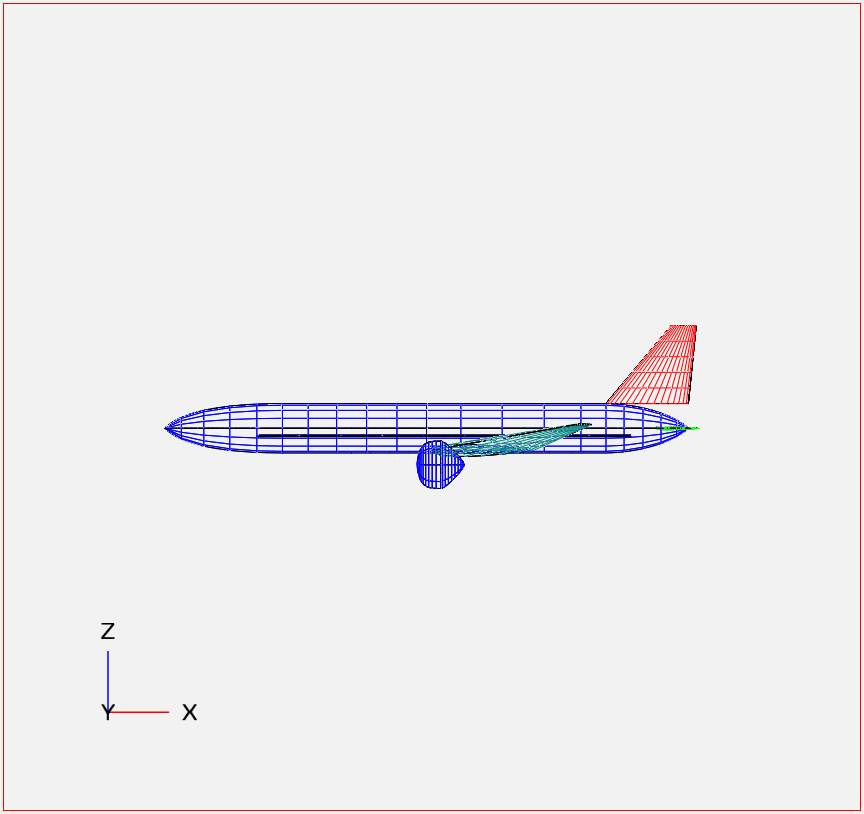
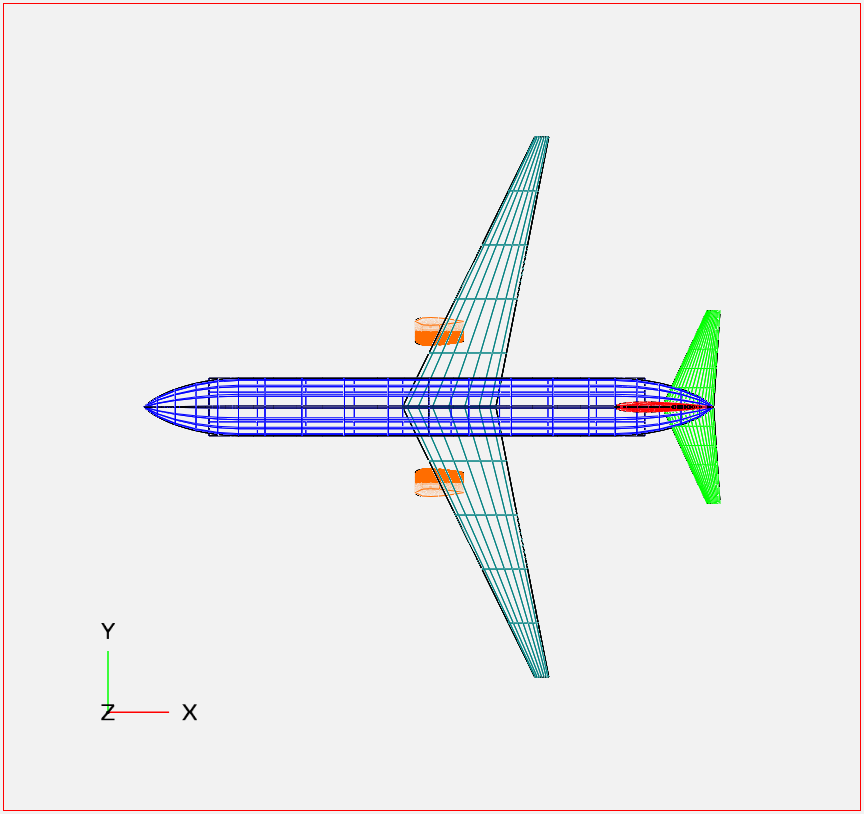
VSP conventional engine geom. resolved, pictures updated.

Changed region(s): [[0.1562, 0.1536, 0.8438, 0.8292], [0.0938, 0.86, 0.125, 0.8907]]

diff --git a/genVSP.py b/genVSP.py
@@ -196,16 +196,16 @@ def genDesFile(sol, aircraft = 'D82', i = 0, swpt = False):
     # if aircraft in ['D8big', 'D82_73eng', 'D8_eng_wing', 'optimalD8', 'M08D8', 'M08_D8_eng_wing']:
 
     # Wing mounted engines
-    if aircraft in ['b737800', 'b777300ER','D8_eng_wing','M08_D8_eng_wing']:
+    if aircraft in ['b737800', 'b777300ER','D8_eng_wing','M08_D8_eng_wing','optimal737']:
         resultsDict.update({
          # Engine Variables
-        'EGCVYPSLWEZ':float((xwing).magnitude), # Engine x location
+        'EGCVYPSLWEZ':float((xwing).magnitude - 0.25*croot.magnitude + yeng.magnitude*tan(sweep*pi/180)), # Engine x location
         'RJLYSBJAFOT':float(yeng.magnitude), #Engine y location
         'GBGVQARDEVD':float(-hfuse.magnitude - 0.2*df.magnitude), # Engine z location
         'HKVDGHIEXRW':float(0.),                                  # Engine up-rotation (degrees)
         })
     # Conventional tail
-    if aircraft in ['b737800', 'b777300ER']:
+    if aircraft in ['b737800', 'b777300ER','optimal737']:
         resultsDict.update({
         # HT Variables
         'USGQFZQKJWC':float(float(xCGht.magnitude) - crootht.magnitude), # HT x location
